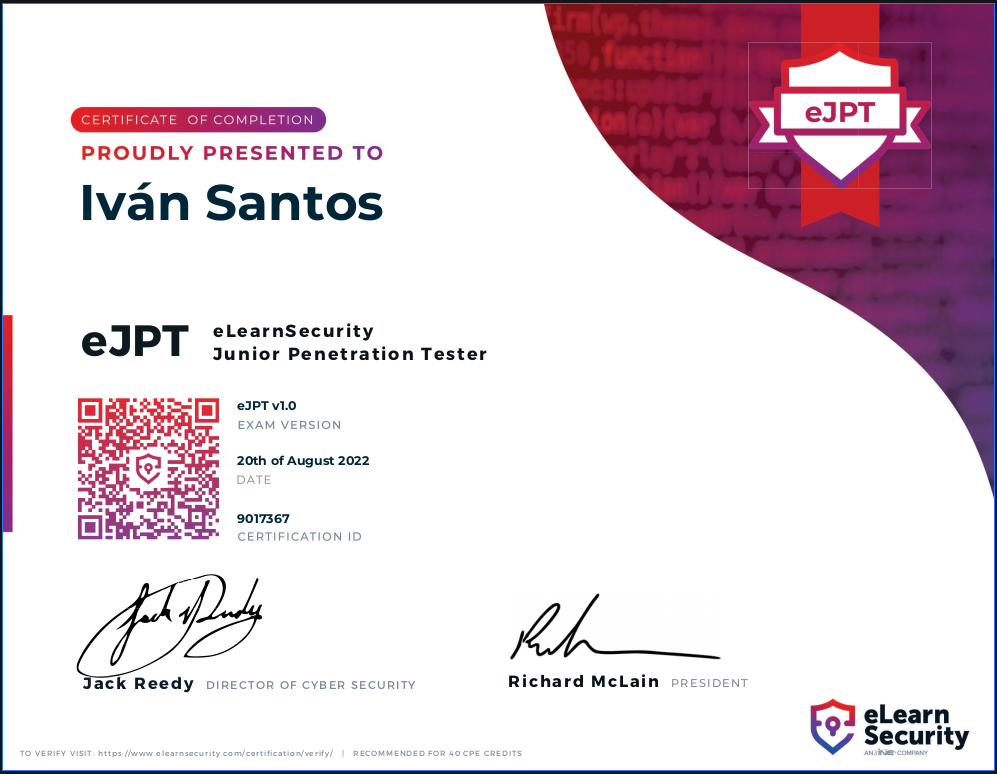
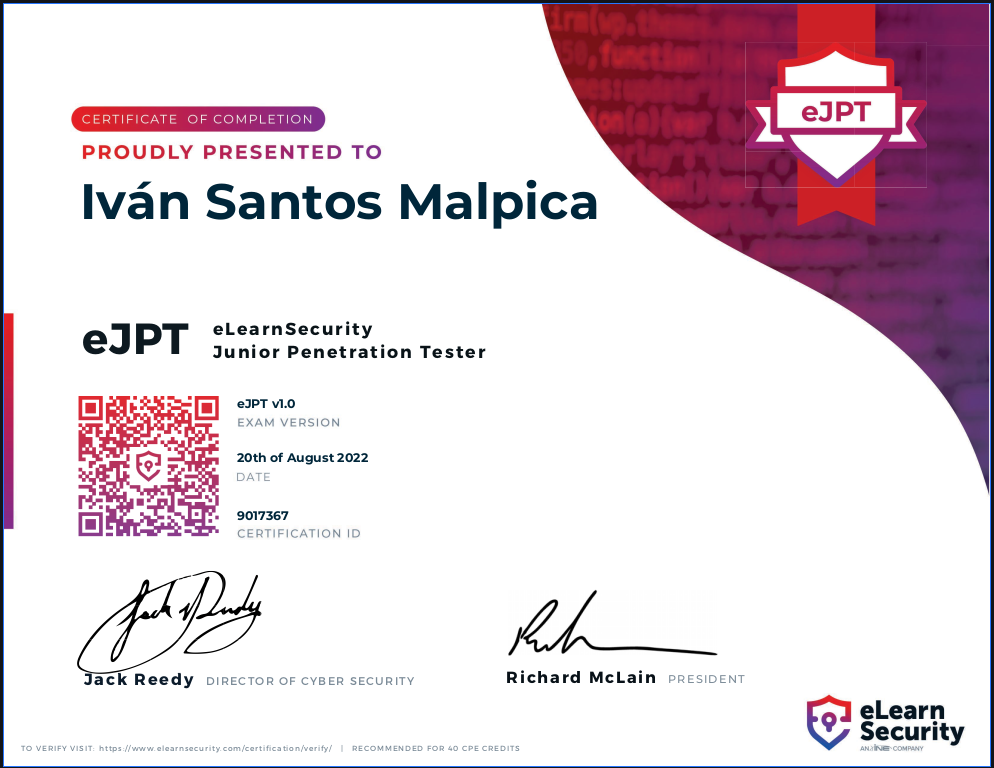
Modified the certification picture, the warning and the conclusions of the eJPT review post.

diff --git a/_site/ejpt-certification-review/index.html b/_site/ejpt-certification-review/index.html
@@ -435,7 +435,7 @@
 <p>In my opinion, considering the free course, the price of the voucher and the possibility of taking the voucher with a discount, the free retake… I think that eJPT is a <strong>very affordable certification</strong>.</p>
 
 <blockquote>
-  <p><img class="emoji" title=":warning:" alt=":warning:" src="https://github.githubassets.com/images/icons/emoji/unicode/26a0.png" height="20" width="20"> Be careful with the name you use during the registration process on the INE website because that is the name that it will appear on the certificate of completion and you will not be able to change it on your own. In my case, I used only my name and my first surname so I had to contact to INE support to add my second surname to the profile and to the certificate of completion.</p>
+  <p><img class="emoji" title=":warning:" alt=":warning:" src="https://github.githubassets.com/images/icons/emoji/unicode/26a0.png" height="20" width="20"> Be careful with the name you use during the registration process on the INE website because that is the name that it will appear on the certificate of completion and you will not be able to change it on your own. In my case, I used only my name and my first surname so I had to contact to INE support to add my second surname to the profile and to the certificate of completion. I had to open several tickets and it took about a month to make the change so I recommend that when you create the account you do it with the name you want to appear on your certificate of completion.</p>
 </blockquote>
 
 <div id="section-id-5"></div>
@@ -583,7 +583,6 @@
   <li>You can’t download the videos and the slides in pdf.</li>
   <li>Sometimes the statements of the labs are not clear, so don’t be afraid to take a look to the solution if you are stuck and you don’t know what you are being asked to do.</li>
   <li>Part of the content is studied directly in the labs, such as pivoting and port forwarding. I think that is not good because you could waste a lot of time trying to solve the lab thinking that you have the necessary skills, but you don’t have them.</li>
-  <li>I didn’t have a good experience with the support team. I asked them to change my account name before the certificate was generated because when I created the account I had only included my first last name. They opened a ticket, closed it a week later and did not change my name even though they told me it would take a maximum of 2 weeks.</li>
 </ul>
 
 <p>Despite the cons, I think that the eJPT certification is a <strong>highly recommended</strong> cert for anyone interested in starting a career in the world of offensive security.</p>

diff --git a/_posts/2022-08-25-ejpt-certification-review.md b/_posts/2022-08-25-ejpt-certification-review.md
@@ -93,9 +93,9 @@ but before you have to create a free account in the following link
 
 The price of the voucher is 200$ but I bought it for 100$ during a 50% off promotion on all certifications during July 2022. The voucher includes 1 free retake and a 6 months period time to begin the certification process. It is important to note that you don't need to buy the voucher to have access to the course so you can take a look at the course and then decide if you want to buy the voucher and start the certification process.
 
-In my opinion, considering the free course, the price of the voucher and the possibility of taking the voucher with a discount, the free retake... I think that eJPT is a **very affordable certification**. 
+In my opinion, considering the free course, the price of the voucher and the possibility of taking the voucher with a discount, the free retake... I think that eJPT is a **very affordable certification**.
 
-> :warning: Be careful with the name you use during the registration process on the INE website because that is the name that it will appear on the certificate of completion and you will not be able to change it on your own. In my case, I used only my name and my first surname so I had to contact to INE support to add my second surname to the profile and to the certificate of completion.
+> :warning: Be careful with the name you use during the registration process on the INE website because that is the name that it will appear on the certificate of completion and you will not be able to change it on your own. In my case, I used only my name and my first surname so I had to contact to INE support to add my second surname to the profile and to the certificate of completion. I had to open several tickets and it took about a month to make the change so I recommend that when you create the account you do it with the name you want to appear on your certificate of completion.
 
 <div id='section-id-5'/>
 ## 5. How is the content?
@@ -218,6 +218,5 @@ From all that we have seen we can say that the eJPT is a certification with the 
 - You can't download the videos and the slides in pdf.
 - Sometimes the statements of the labs are not clear, so don't be afraid to take a look to the solution if you are stuck and you don't know what you are being asked to do.
 - Part of the content is studied directly in the labs, such as pivoting and port forwarding. I think that is not good because you could waste a lot of time trying to solve the lab thinking that you have the necessary skills, but you don't have them.
-- I didn't have a good experience with the support team. I asked them to change my account name before the certificate was generated because when I created the account I had only included my first last name. They opened a ticket, closed it a week later and did not change my name even though they told me it would take a maximum of 2 weeks.
 
 Despite the cons, I think that the eJPT certification is a **highly recommended** cert for anyone interested in starting a career in the world of offensive security.
